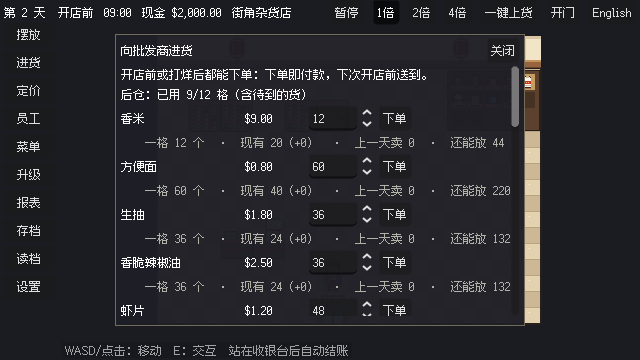
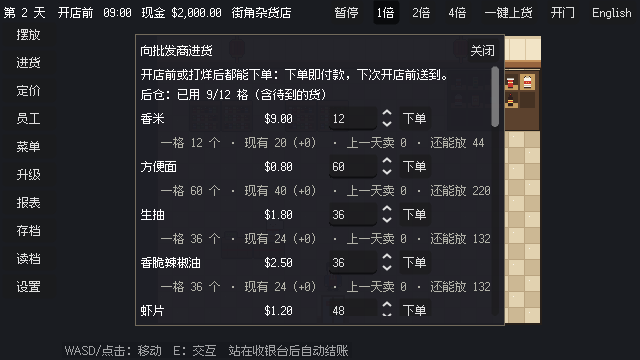
Order facts come from one translation key; rerun the 30-day report and the deli comparison

diff --git a/game/scripts/Ui/OrderPanel.cs b/game/scripts/Ui/OrderPanel.cs
@@ -43,7 +43,7 @@ public partial class OrderPanel : PanelBase
             var facts = Text("");
             facts.AddThemeColorOverride("font_color", new Color(0.7f, 0.7f, 0.66f));
             _rows[product.Id] = (facts, lastDay.FirstOrDefault(s => s.ProductId == product.Id)?.Units ?? 0);
-            Body.AddChild(facts);
+            Body.AddChild(Row(new Control { CustomMinimumSize = new Vector2(16, 0) }, facts));
         }
 
         Refresh();
@@ -55,11 +55,9 @@ public partial class OrderPanel : PanelBase
         foreach (var (id, (facts, sold)) in _rows)
         {
             var product = Host.Data.Products.Single(p => p.Id == id);
-            facts.Text = "    " + string.Join("  ·  ",
-                UiText.F("ui.order.per_slot", ("n", product.UnitsPerStorageSlot)),
-                UiText.F("ui.order.have", ("stock", sim.Inventory.Total(id)), ("pending", sim.PendingOrders.Where(o => o.ProductId == id).Sum(o => o.Quantity))),
-                UiText.F("ui.order.sold_last_day", ("n", sold)),
-                UiText.F("ui.order.room", ("n", sim.RoomFor(id))));
+            facts.Text = UiText.F("ui.order.facts",
+                ("per_slot", product.UnitsPerStorageSlot), ("stock", sim.Inventory.Total(id)),
+                ("pending", sim.PendingOrders.Where(o => o.ProductId == id).Sum(o => o.Quantity)), ("sold", sold), ("room", sim.RoomFor(id)));
         }
 
         foreach (var (storage, label) in _spaces)
